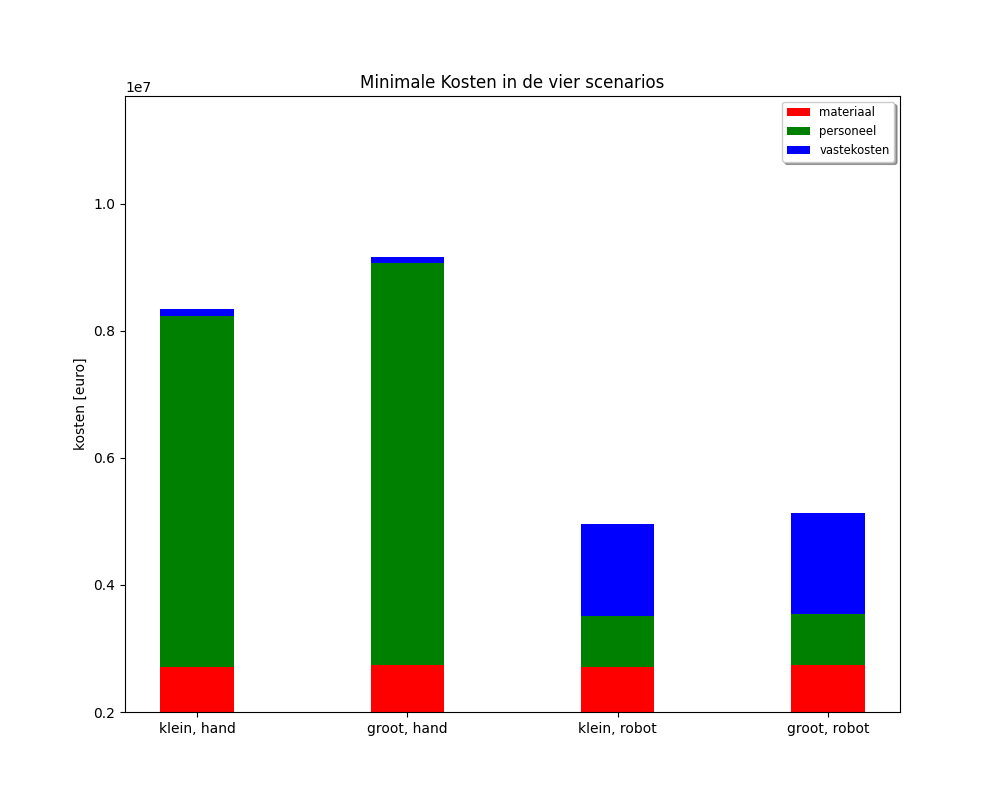
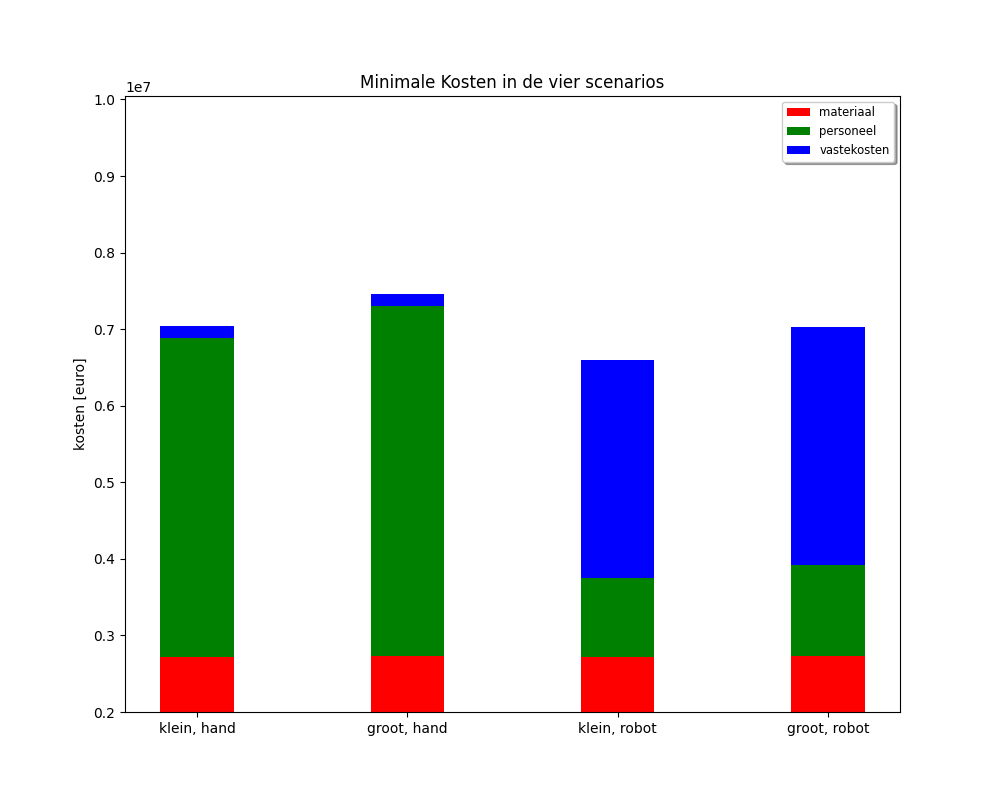
hip

diff --git a/plaatproductie/plaatproductie personeeltest.py b/plaatproductie/plaatproductie personeeltest.py
@@ -18,7 +18,7 @@ hvrang = 1.25
 hspant = 0.16
 capaciteit = 22500 + 4/3* 17280
 
-loods = 1200
+loods = 1730
 
 '''#hand
 personeel = 50/0.35(nplaat + 4 + Llas_plaat/15 +(Llas_vrang_verti/1.2 +(Llas_vrang_hori+Llas_zaathout)/2)*(7.8*tp**2/200) 1/2*(nspant)+2*(nvrang+nzaathout))
@@ -45,7 +45,7 @@ class totaal():
 
         materiaal = 35521200*tp + 3415500/sg + 355212000*A_bulb/ss-118404000*A_bulb+1138500+3900*tp*Llas
 
-        urenpplaat = 1/0.35*(nplaat + 4 + Llas_plaat/15 +(Llas_vrang_verti/1.2 +(Llas_vrang_hori+Llas_zaathout+Llas_spant)/2)*(7.8*tpmm**2/2000) +(nspant)+4*(nvrang+nzaathout))
+        urenpplaat = nplaat + 2 + 1/0.35*(Llas_plaat/15 +(Llas_vrang_verti/1.2 +(Llas_vrang_hori+Llas_zaathout+Llas_spant)/2)*(7.8*tpmm**2/2000) )+0.5*(nspant)+4*(nvrang+nzaathout)
         personeel = aantal_jaar*50* urenpplaat
 
         vastekosten = 90*loods
@@ -70,7 +70,7 @@ class totaal():
 
         materiaal = 35521200*tp + 3415500/sg + 355212000*A_bulb/ss-118404000*A_bulb+1138500+3900*tp*Llas
 
-        urenpplaat = 1/0.35*(nplaat + 4 + Llas_plaat/15 +(Llas_vrang_verti/1.2 +(Llas_vrang_hori+Llas_zaathout+Llas_spant)/2)*(7.8*tpmm**2/2000) +(nspant)+8*(nvrang+nzaathout))
+        urenpplaat = nplaat + 2 + 1/0.35*(Llas_plaat/15 +(Llas_vrang_verti/1.2 +(Llas_vrang_hori+Llas_zaathout+Llas_spant)/2)*(7.8*tpmm**2/2000) )+0.5*(nspant)+8*(nvrang+nzaathout)
 
         personeel = aantal_jaar*50*urenpplaat
 
@@ -96,10 +96,10 @@ class totaal():
 
         materiaal = 35521200*tp + 3415500/sg + 355212000*A_bulb/ss-118404000*A_bulb+1138500+3900*tp*Llas
 
-        urenpplaat = 1/0.6*(((Llas_zaathout/2+Llas_vrang_verti/1.2+Llas_vrang_hori/2)*7.8*tpmm**2)/4000)
+        urenpplaat = 1/0.6*(((Llas_zaathout/2+Llas_vrang_verti/1.2+Llas_vrang_hori/2)*7.8*tpmm**2)/4000) +2*(nvrang+nzaathout)
         personeel = aantal_jaar*90*3/5*urenpplaat
-
-        vastekosten = 70*loods +275000*5
+        loods = 1500
+        vastekosten = 70*loods +275000*10
         totaal = materiaal + personeel + vastekosten 
         return totaal
 
@@ -120,10 +120,10 @@ class totaal():
 
         materiaal = 35521200*tp + 3415500/sg + 355212000*A_bulb/ss-118404000*A_bulb+1138500+3900*tp*Llas
 
-        urenpplaat = 1/0.6*(((Llas_zaathout/2+Llas_vrang_verti/1.2+Llas_vrang_hori/2)*7.8*tpmm**2)/4000)
+        urenpplaat = 1/0.6*(((Llas_zaathout/2+Llas_vrang_verti/1.2+Llas_vrang_hori/2)*7.8*tpmm**2)/4000) +4*(nvrang+nzaathout)
         personeel = aantal_jaar*90*3/5*urenpplaat
-
-        vastekosten = 70*loods +300000*5
+        loods = 1500
+        vastekosten = 70*loods +300000*10
 
         totaal = materiaal + personeel + vastekosten 
         return totaal
@@ -247,7 +247,7 @@ class personeel():
 
         materiaal = aantal_jaar*4*(Lp*Bp*7800*tp+Bp*75*Lp/sg+(Bp/ss-1)*Lp*A_bulb*7800+Lp*75)+0.5*7800*tp*Llas
 
-        urenpplaat = 1/0.35*(nplaat + 4 + Llas_plaat/15 +(Llas_vrang_verti/1.2 +(Llas_vrang_hori+Llas_zaathout+Llas_spant)/2)*(7.8*tpmm**2/2000) +(nspant)+4*(nvrang+nzaathout))
+        urenpplaat = nplaat + 2 + 1/0.35*(Llas_plaat/15 +(Llas_vrang_verti/1.2 +(Llas_vrang_hori+Llas_zaathout+Llas_spant)/2)*(7.8*tpmm**2/2000) )+0.5*(nspant)+4*(nvrang+nzaathout)
         personeel = aantal_jaar*50* urenpplaat
 
         vastekosten = 151773.33
@@ -272,7 +272,7 @@ class personeel():
 
         materiaal = aantal_jaar*8*(Lp*Bp*7800*tp+Bp*75*Lp/sg+(Bp/ss-1)*Lp*A_bulb*7800+Lp*75)+0.5*7800*tp*Llas
 
-        urenpplaat = 1/0.35*(nplaat + 4 + Llas_plaat/15 +(Llas_vrang_verti/1.2 +(Llas_vrang_hori+Llas_zaathout+Llas_spant)/2)*(7.8*tpmm**2/2000) +(nspant)+8*(nvrang+nzaathout))
+        urenpplaat = nplaat + 2 + 1/0.35*(Llas_plaat/15 +(Llas_vrang_verti/1.2 +(Llas_vrang_hori+Llas_zaathout+Llas_spant)/2)*(7.8*tpmm**2/2000) )+0.5*(nspant)+8*(nvrang+nzaathout)
 
         personeel = aantal_jaar*50*urenpplaat
 
@@ -298,7 +298,7 @@ class personeel():
 
         materiaal = aantal_jaar*4*(Lp*Bp*7800*tp+Bp*75*Lp/sg+(Bp/ss-1)*Lp*A_bulb*7800+Lp*75)+0.5*7800*tp*Llas
 
-        urenpplaat = 1/0.6*(((Llas_zaathout/2+Llas_vrang_verti/1.2+Llas_vrang_hori/2)*7.8*tpmm**2)/4000)
+        urenpplaat = 1/0.6*(((Llas_zaathout/2+Llas_vrang_verti/1.2+Llas_vrang_hori/2)*7.8*tpmm**2)/4000) +2*(nvrang+nzaathout)
         personeel = aantal_jaar*90*3/5*urenpplaat
 
         vastekosten = 106260+229166.67*((43.7+0.3*nspant+2*nvrang)*137/8400)
@@ -323,7 +323,7 @@ class personeel():
 
         materiaal = aantal_jaar*8*(Lp*Bp*7800*tp+Bp*75*Lp/sg+(Bp/ss-1)*Lp*A_bulb*7800+Lp*75)+0.5*7800*tp*Llas
 
-        urenpplaat = 1/0.6*(((Llas_zaathout/2+Llas_vrang_verti/1.2+Llas_vrang_hori/2)*7.8*tpmm**2)/4000)
+        urenpplaat = 1/0.6*(((Llas_zaathout/2+Llas_vrang_verti/1.2+Llas_vrang_hori/2)*7.8*tpmm**2)/4000) +4*(nvrang+nzaathout)
         personeel = aantal_jaar*90*3/5*urenpplaat
 
         vastekosten = 106260+250000*((88.5+0.3*nspant+4*nvrang)*159/8400)
@@ -400,8 +400,8 @@ class vastekosten():
         materiaal = 4*(Lp*Bp*7800*tp+Bp*75*Lp/sg+(Bp/ss-1)*Lp*A_bulb*7800+Lp*75)+0.5*7800*tp*Llas
 
         personeel = aantal_jaar*(3933+27*nspant+180*nvrang)
-
-        vastekosten = 70*loods +275000*5  *ss/ss
+        loods = 1500
+        vastekosten = 70*loods +275000*10 *ss/ss
 
         totaal = materiaal + personeel + vastekosten 
         return vastekosten
@@ -424,8 +424,8 @@ class vastekosten():
         materiaal = 8*(Lp*Bp*7800*tp+Bp*75*Lp/sg+(Bp/ss-1)*Lp*A_bulb*7800+Lp*75)+0.5*7800*tp*Llas
 
         personeel = aantal_jaar*(7965+27*nspant+4320*260*nvrang)
-
-        vastekosten = 70*loods +300000*5  *ss/ss
+        loods = 1500
+        vastekosten = 70*loods +300000*10  *ss/ss
 
         totaal = materiaal + personeel + vastekosten 
         return vastekosten

diff --git a/plaatproductie/optima.py b/plaatproductie/optima.py
@@ -17,7 +17,7 @@ A= 144
 hvrang = 1.25
 hspant = 0.16
 capaciteit = 22500 + 4/3* 17280
-loods = 1200
+loods = 1730
 
 '''#hand
 personeel = 50/0.35(nplaat + 4 + Llas_plaat/15 +(Llas_vrang_verti/1.2 +(Llas_vrang_hori+Llas_zaathout)/2)*(7.8*tp**2/200) 1/2*(nspant)+2*(nvrang+nzaathout))
@@ -44,7 +44,7 @@ class totaal():
 
         materiaal = 35521200*tp + 3415500/sg + 355212000*A_bulb/ss-118404000*A_bulb+1138500+3900*tp*Llas
 
-        urenpplaat = 1/0.35*(nplaat + 4 + Llas_plaat/15 +(Llas_vrang_verti/1.2 +(Llas_vrang_hori+Llas_zaathout+Llas_spant)/2)*(7.8*tpmm**2/2000) +(nspant)+4*(nvrang+nzaathout))
+        urenpplaat = nplaat + 2 + 1/0.35*(Llas_plaat/15 +(Llas_vrang_verti/1.2 +(Llas_vrang_hori+Llas_zaathout+Llas_spant)/2)*(7.8*tpmm**2/2000) )+0.5*(nspant)+4*(nvrang+nzaathout)
         personeel = aantal_jaar*50* urenpplaat
 
         vastekosten = 90*loods
@@ -69,7 +69,7 @@ class totaal():
 
         materiaal = 35521200*tp + 3415500/sg + 355212000*A_bulb/ss-118404000*A_bulb+1138500+3900*tp*Llas
 
-        urenpplaat = 1/0.35*(nplaat + 4 + Llas_plaat/15 +(Llas_vrang_verti/1.2 +(Llas_vrang_hori+Llas_zaathout+Llas_spant)/2)*(7.8*tpmm**2/2000) +(nspant)+8*(nvrang+nzaathout))
+        urenpplaat = nplaat + 2 + 1/0.35*(Llas_plaat/15 +(Llas_vrang_verti/1.2 +(Llas_vrang_hori+Llas_zaathout+Llas_spant)/2)*(7.8*tpmm**2/2000) )+0.5*(nspant)+8*(nvrang+nzaathout)
 
         personeel = aantal_jaar*50*urenpplaat
 
@@ -95,10 +95,10 @@ class totaal():
 
         materiaal = 35521200*tp + 3415500/sg + 355212000*A_bulb/ss-118404000*A_bulb+1138500+3900*tp*Llas
 
-        urenpplaat = 1/0.6*(((Llas_zaathout/2+Llas_vrang_verti/1.2+Llas_vrang_hori/2)*7.8*tpmm**2)/4000)
+        urenpplaat = 1/0.6*(((Llas_zaathout/2+Llas_vrang_verti/1.2+Llas_vrang_hori/2)*7.8*tpmm**2)/4000) +2*(nvrang+nzaathout)
         personeel = aantal_jaar*90*3/5*urenpplaat
-
-        vastekosten = 70*loods +275000*5
+        loods = 1500
+        vastekosten = 70*loods +275000*10
         totaal = materiaal + personeel + vastekosten 
         return totaal
 
@@ -119,10 +119,10 @@ class totaal():
 
         materiaal = 35521200*tp + 3415500/sg + 355212000*A_bulb/ss-118404000*A_bulb+1138500+3900*tp*Llas
 
-        urenpplaat = 1/0.6*(((Llas_zaathout/2+Llas_vrang_verti/1.2+Llas_vrang_hori/2)*7.8*tpmm**2)/4000)
+        urenpplaat = 1/0.6*(((Llas_zaathout/2+Llas_vrang_verti/1.2+Llas_vrang_hori/2)*7.8*tpmm**2)/4000) +4*(nvrang+nzaathout)
         personeel = aantal_jaar*90*3/5*urenpplaat
-
-        vastekosten = 70*loods +300000*5
+        loods = 1500
+        vastekosten = 70*loods +300000*10
 
         totaal = materiaal + personeel + vastekosten 
         return totaal
@@ -246,7 +246,7 @@ class personeel():
 
         materiaal = aantal_jaar*4*(Lp*Bp*7800*tp+Bp*75*Lp/sg+(Bp/ss-1)*Lp*A_bulb*7800+Lp*75)+0.5*7800*tp*Llas
 
-        urenpplaat = 1/0.35*(nplaat + 4 + Llas_plaat/15 +(Llas_vrang_verti/1.2 +(Llas_vrang_hori+Llas_zaathout+Llas_spant)/2)*(7.8*tpmm**2/2000) +(nspant)+4*(nvrang+nzaathout))
+        urenpplaat = nplaat + 2 + 1/0.35*(Llas_plaat/15 +(Llas_vrang_verti/1.2 +(Llas_vrang_hori+Llas_zaathout+Llas_spant)/2)*(7.8*tpmm**2/2000) )+0.5*(nspant)+4*(nvrang+nzaathout)
         personeel = aantal_jaar*50* urenpplaat
 
         vastekosten = 151773.33
@@ -271,7 +271,7 @@ class personeel():
 
         materiaal = aantal_jaar*8*(Lp*Bp*7800*tp+Bp*75*Lp/sg+(Bp/ss-1)*Lp*A_bulb*7800+Lp*75)+0.5*7800*tp*Llas
 
-        urenpplaat = 1/0.35*(nplaat + 4 + Llas_plaat/15 +(Llas_vrang_verti/1.2 +(Llas_vrang_hori+Llas_zaathout+Llas_spant)/2)*(7.8*tpmm**2/2000) +(nspant)+8*(nvrang+nzaathout))
+        urenpplaat = nplaat + 2 + 1/0.35*(Llas_plaat/15 +(Llas_vrang_verti/1.2 +(Llas_vrang_hori+Llas_zaathout+Llas_spant)/2)*(7.8*tpmm**2/2000) )+0.5*(nspant)+8*(nvrang+nzaathout)
 
         personeel = aantal_jaar*50*urenpplaat
 
@@ -297,7 +297,7 @@ class personeel():
 
         materiaal = aantal_jaar*4*(Lp*Bp*7800*tp+Bp*75*Lp/sg+(Bp/ss-1)*Lp*A_bulb*7800+Lp*75)+0.5*7800*tp*Llas
 
-        urenpplaat = 1/0.6*(((Llas_zaathout/2+Llas_vrang_verti/1.2+Llas_vrang_hori/2)*7.8*tpmm**2)/4000)
+        urenpplaat = 1/0.6*(((Llas_zaathout/2+Llas_vrang_verti/1.2+Llas_vrang_hori/2)*7.8*tpmm**2)/4000) +2*(nvrang+nzaathout)
         personeel = aantal_jaar*90*3/5*urenpplaat
 
         vastekosten = 106260+229166.67*((43.7+0.3*nspant+2*nvrang)*137/8400)
@@ -322,7 +322,7 @@ class personeel():
 
         materiaal = aantal_jaar*8*(Lp*Bp*7800*tp+Bp*75*Lp/sg+(Bp/ss-1)*Lp*A_bulb*7800+Lp*75)+0.5*7800*tp*Llas
 
-        urenpplaat = 1/0.6*(((Llas_zaathout/2+Llas_vrang_verti/1.2+Llas_vrang_hori/2)*7.8*tpmm**2)/4000)
+        urenpplaat = 1/0.6*(((Llas_zaathout/2+Llas_vrang_verti/1.2+Llas_vrang_hori/2)*7.8*tpmm**2)/4000) +4*(nvrang+nzaathout)
         personeel = aantal_jaar*90*3/5*urenpplaat
 
         vastekosten = 106260+250000*((88.5+0.3*nspant+4*nvrang)*159/8400)
@@ -399,8 +399,8 @@ class vastekosten():
         materiaal = 4*(Lp*Bp*7800*tp+Bp*75*Lp/sg+(Bp/ss-1)*Lp*A_bulb*7800+Lp*75)+0.5*7800*tp*Llas
 
         personeel = aantal_jaar*(3933+27*nspant+180*nvrang)
-
-        vastekosten = 70*loods +275000*5
+        loods = 1500
+        vastekosten = 70*loods +275000*10
 
         totaal = materiaal + personeel + vastekosten 
         return vastekosten
@@ -424,7 +424,8 @@ class vastekosten():
 
         personeel = aantal_jaar*(7965+27*nspant+4320*260*nvrang)
 
-        vastekosten = 70*loods +300000*5
+        loods = 1500
+        vastekosten = 70*loods +300000*10
 
         totaal = materiaal + personeel + vastekosten 
         return vastekosten
